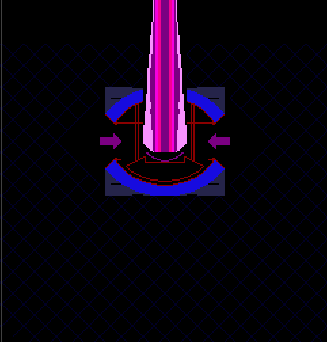
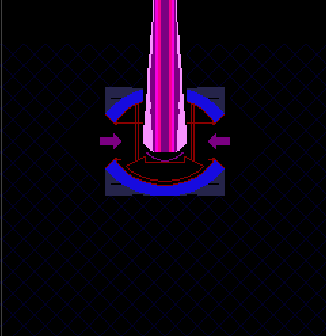
Update

diff --git a/GridBugsSpinne.java b/GridBugsSpinne.java
@@ -12,9 +12,10 @@ public class GridBugsSpinne extends Actor
      * the 'Act' or 'Run' button gets pressed in the environment.
      */
     
-    int timer = 0;
+    int deathTimer = 0;
     int movingTimer = 0;
-    int speed = 1;
+    int cloningTimer = 0;
+    int speed;
     int backPushPlayer = 7; // wie stark eine Spinne von dem Player verschoben werden kann
     int backPushSpider = 1; // wie stark eine Spinne von einer Spinne verschoben werden kann
     
@@ -26,20 +27,29 @@ public class GridBugsSpinne extends Actor
     {
         movingTimer++;
         if(movingTimer%2==0){
-            getMoving();
+            getMoving();        // bewegt sich nur unregelm. (für bessere Regulation der Geschwindigkeit)
         }
         
         if(isTouching(GridBugsKugel.class)){
-            timer++;
+            deathTimer++;   // setzt deathTimer auf 1
         }
         
-        if(timer != 0){
-            timer++;
+        if(deathTimer != 0){
+            deathTimer++;   // beginnt, wenn von Kugel berührt
         }
         
-        if(timer == 6){
+        if(deathTimer == 6){
+            // Spinne explodiert 6 acts nach Berührung mit der Kugel
             GameManager.addPunkte(10);
             getWorld().removeObject(this);
+        }
+        
+        cloningTimer++;
+        if((cloningTimer+1)%30==0){
+            int randomNumber = Greenfoot.getRandomNumber(10);
+            if(randomNumber == 0){
+                cloneSpider();
+            }
         }
     }
     
@@ -75,41 +85,7 @@ public class GridBugsSpinne extends Actor
         
         x = getX();
         y = getY();
-        if((movingTimer)%4==0){
-            if(!(x+backPushSpider>100 && x-backPushSpider<226 && y+backPushSpider>75 && y-backPushSpider<200)){
-                if(isTouching(GridBugsSpinne.class)){
-                    double randomNumber = Math.random();
-                    if(randomNumber<0.25){
-                        setLocation(x+backPushSpider, y+backPushSpider);
-                    } else if (randomNumber<0.5){
-                        setLocation(x+backPushSpider, y-backPushSpider);
-                    } else if (randomNumber<0.75){
-                        setLocation(x-backPushSpider, y+backPushSpider);
-                    } else {
-                        setLocation(x-backPushSpider, y-backPushSpider);
-                    }
-                }
-            }
-        }
-        
-        x = getX();
-        y = getY();
-        
-        if(!(x+speed>100 && x-speed<226 && y+speed>75 && y-speed<200)){  // Falls nicht in nähe des Vierecks
-            if(difX>difY){
-                if(difX>0){
-                    setLocation(x+speed, y);
-                } else {
-                    setLocation(x, y-speed);
-                }
-            } else {
-                if(difY>0){
-                    setLocation(x, y+speed);
-                } else {
-                    setLocation(x-speed, y);
-                }
-            }
-        } else { // Falls in der Nähe des Vierecks
+        if(x+speed>100 && x-speed<226 && y+speed>75 && y-speed<200){ // Falls am Rand des Vierecks
             if(x<100){
                 if(y>=140){
                     setLocation(x, y+speed);
@@ -135,6 +111,52 @@ public class GridBugsSpinne extends Actor
                     setLocation(x-speed, y);
                 }
             }
+        } else{ // falls nicht am Rand des zentralen Vierecks
+            if(difX>difY){
+                if(difX>0){
+                    setLocation(x+speed, y);
+                } else {
+                    setLocation(x, y-speed);
+                }
+            } else {
+                if(difY>0){
+                    setLocation(x, y+speed);
+                } else {
+                    setLocation(x-speed, y);
+                }
+            }
+        }
+    }
+    
+    public void pushBack(){
+        int x = getX();
+        int y = getY();
+        if((movingTimer)%4==0){
+            if(!(x+backPushSpider>100 && x-backPushSpider<226 && y+backPushSpider>75 && y-backPushSpider<200)){
+                if(isTouching(GridBugsSpinne.class)){
+                    double randomNumber = Math.random();
+                    if(randomNumber<0.25){
+                        setLocation(x+backPushSpider, y+backPushSpider);
+                    } else if (randomNumber<0.5){
+                        setLocation(x+backPushSpider, y-backPushSpider);
+                    } else if (randomNumber<0.75){
+                        setLocation(x-backPushSpider, y+backPushSpider);
+                    } else {
+                        setLocation(x-backPushSpider, y-backPushSpider);
+                    }
+                }
+            }
+        }
+    }
+    
+    public void cloneSpider(){
+        int x = getX();
+        int y = getY();
+        
+        int cloneBackPush = 20;
+        if(!(x+cloneBackPush>100 && x-cloneBackPush<226 && y+cloneBackPush>75 && y-cloneBackPush<200)){
+            getWorldOfType(GridBugs.class).addSpinne(getX()+20, getY(), speed);
+            setLocation(x-20, y);
         }
     }
 }

diff --git a/GridBugsPlayer.java b/GridBugsPlayer.java
@@ -20,7 +20,7 @@ public class GridBugsPlayer extends Actor {
 
     int speed = 1; // Geschwindigkeit des Spielers
 
-    int leben = 200; // Leben des Spielers
+    int leben = 100; // Leben des Spielers
 
     int timer = 0;
 
@@ -72,31 +72,33 @@ public class GridBugsPlayer extends Actor {
         // Steuert die Bewegung des Spielers
         int x = getX();
         int y = getY();
+        
+        // halten Fest, welche Bewegungen ausgeführt werden müssen
         int moveUp = 0;
         int moveDown = 0;
         int moveLeft = 0;
         int moveRight = 0;
         if (Greenfoot.isKeyDown("w")) {
-            if (!(((y - speed < 230 && y - speed > 147) || (y - speed > 70 && y - speed < 113)) && x > 97 && x < 229)) { // damit der Spieler nicht durch die Wände des zentralen Vierecks laufen kann
+            if (!(((y - speed < 230 && y - speed > 147) || (y - speed > 70 && y - speed < 113)) && x > 97 && x < 229) && y>20) { // damit der Spieler nicht durch die Wände des zentralen Vierecks laufen kann
                 moveUp = 1; // Bewegung nach oben
             }
         }
         if (Greenfoot.isKeyDown("y") || Greenfoot.isKeyDown("s")) {
-            if (!(((y + speed < 230 && y + speed > 147) || (y + speed > 70 && y + speed < 113)) && x > 97 && x < 229)) {  // damit der Spieler nicht durch die Wände des zentralen Vierecks laufen kann
+            if (!(((y + speed < 230 && y + speed > 147) || (y + speed > 70 && y + speed < 113)) && x > 97 && x < 229) && y<329) {  // damit der Spieler nicht durch die Wände des zentralen Vierecks laufen kann
                 moveDown = 1; // Bewegung nach unten
             }
         }
         if (Greenfoot.isKeyDown("a")) {
-            if (!(((y < 230 && y > 147) || (y > 70 && y < 113)) && x - speed > 97 && x - speed < 229)) { // damit der Spieler nicht durch die Wände des zentralen Vierecks laufen kann
+            if (!(((y < 230 && y > 147) || (y > 70 && y < 113)) && x - speed > 97 && x - speed < 229) && x>5) { // damit der Spieler nicht durch die Wände des zentralen Vierecks laufen kann
                 moveLeft = 1; // Bewegung nach links
             }
         }
         if (Greenfoot.isKeyDown("d")) {
-            if (!(((y < 230 && y > 147) || (y > 70 && y < 113)) && x + speed > 97 && x + speed < 229)) { // damit der Spieler nicht durch die Wände des zentralen Vierecks laufen kann
+            if (!(((y < 230 && y > 147) || (y > 70 && y < 113)) && x + speed > 97 && x + speed < 229) && x<321) { // damit der Spieler nicht durch die Wände des zentralen Vierecks laufen kann
                 moveRight = 1; // Bewegung nach rechts
             }
         }
-        setLocation(x + moveRight - moveLeft, y + moveDown - moveUp);
+        setLocation(x + moveRight - moveLeft, y + moveDown - moveUp);   // führt Bewegungen au
     }
 
     public void getShooting() {

diff --git a/GridBugsKugel.java b/GridBugsKugel.java
@@ -15,7 +15,7 @@ public class GridBugsKugel extends Actor
     int rotation;
     int speed = 4;
     
-    int timer = 0;
+    int explosionTimer = 0;
     
     public GridBugsKugel(int rotation){
         this.rotation = rotation;
@@ -24,30 +24,49 @@ public class GridBugsKugel extends Actor
     
     public void act()
     {
-        move(speed);
+        // Position der Kugel
+        int x = getX();
+        int y = getY();
+        
+        move(speed);    // Bewegung der Kugel
         
         if(isAtEdge()){
+            // Entfernt Kugel, wenn sie an den Rand geht
             getWorld().removeObject(this);
             Greenfoot.start();
         }
-        else if(isTouching(GridBugsSpinne.class) && timer==0){
-            setImage("Explosion Status 1.png");
-            timer++;
+        else if(((y<230 && y>147) || (y>70 && y<113)) && x>97 && x<229){
+            // Explodiert, wenn sie gegen Rand d. zentralen Vierecks trifft
+            explode();
         }
-        else if(timer%3!=0){
-            timer++;
-        }
-        else if(timer==3){
-            setImage("Explosion Status 2.png");
-            timer++;
-        }
-        else if(timer==6){
-            setImage("Explosion Status 3.png");
-            timer++;
-        }
-        else if(timer==9){
-            getWorld().removeObject(this);
+        else if(isTouching(GridBugsSpinne.class)){
+            explode();  // Kugel explodiert
         }
         
+        if(explosionTimer != 0){
+            explode(); // führt Explosion weiter, wenn sie einmal gestartet ist
+        }
+    }
+    
+    public void explode(){
+        if(explosionTimer==0){
+            setImage("Explosion Status 1.png");
+            explosionTimer++;
+        }
+        else if(explosionTimer%3!=0){
+            explosionTimer++;
+        }
+        else if(explosionTimer==3){
+            setImage("Explosion Status 2.png");
+            explosionTimer++;
+        }
+        else if(explosionTimer==6){
+            setImage("Explosion Status 3.png");
+            explosionTimer++;
+        }
+        else if(explosionTimer==9){
+            getWorld().removeObject(this);
+            return;
+        }
     }
 }

diff --git a/GridBugs.java b/GridBugs.java
@@ -68,6 +68,9 @@ public class GridBugs extends WorldTemplate {
         }
         if (time < 0 && !levelFinished || playerIsDead) {
             showText("Du hast verloren", 163, 250);
+            removeObjects(getObjects(GridBugsKugel.class));
+            removeObjects(getObjects(GridBugsPlayer.class));
+            removeObjects(getObjects(GridBugsSpinne.class));
             Greenfoot.delay(100);
             GameManager.resetLevel(2);  
         }
